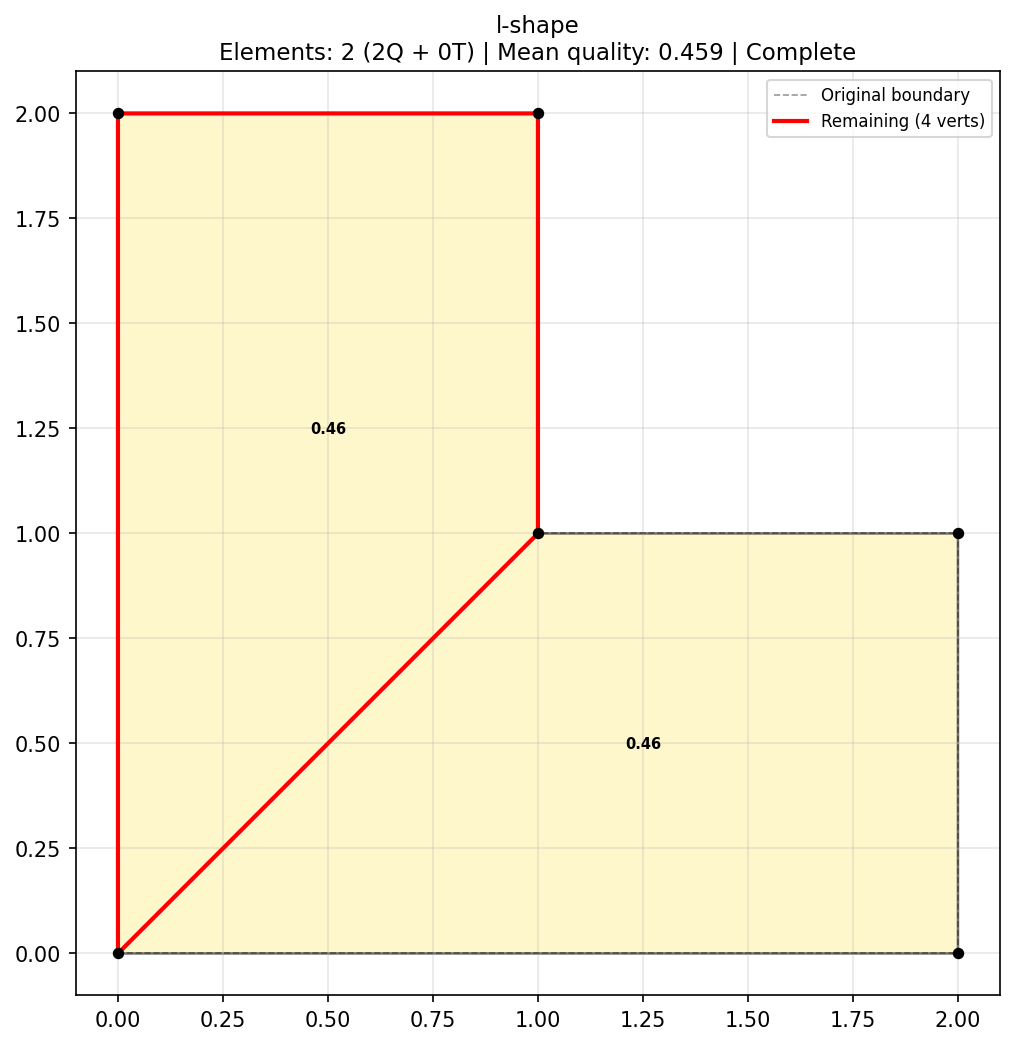
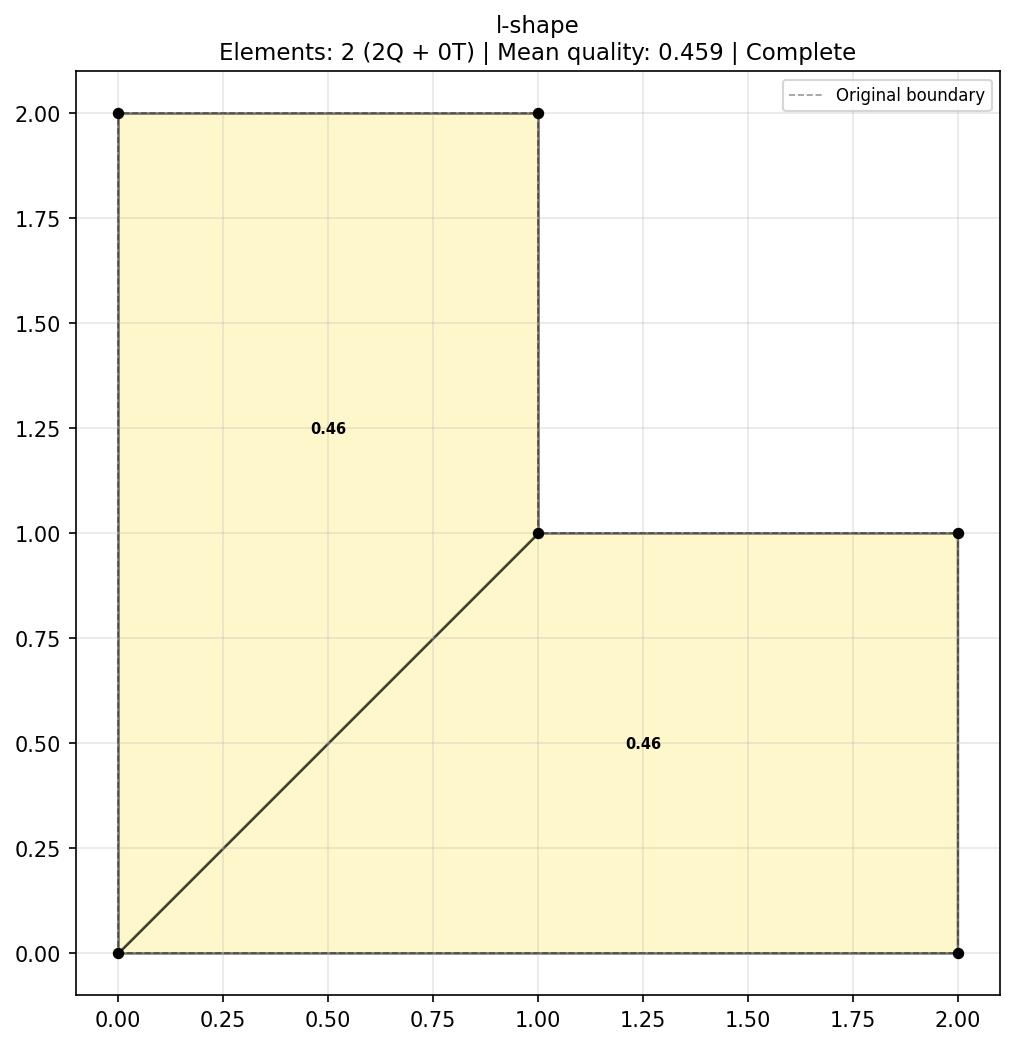
Fix boundary clearing on auto-close, add session 3 report and session 4 plan
Auto-close of final 3-4 vertex boundary now clears env.boundary,
fixing visualization bug that showed phantom "Remaining" boundary
on completed meshes.

Session 3 report documents reward farming fix and multi-domain results.
Session 4 plan (adversarial-reviewed) focuses on greedy baseline,
rectangle scaling, and transfer learning.

diff --git a/src/DiscreteActionEnv.py b/src/DiscreteActionEnv.py
@@ -101,6 +101,7 @@ class DiscreteActionEnv(gym.Wrapper):
             tri = np.array(self.env.boundary)
             self.env.elements.append(tri)
             self.env.element_qualities.append(0.3)
+            self.env.boundary = np.empty((0, 2))
             mean_q = np.mean(self.env.element_qualities) if self.env.element_qualities else 0
             if self.env.is_boundary_triangle(tri):
                 reward = 2.0 + 4.0 * mean_q  # boundary triangle: moderate penalty
@@ -114,6 +115,7 @@ class DiscreteActionEnv(gym.Wrapper):
                 quality_final = self.env._calculate_element_quality(bnd_quad)
                 self.env.elements.append(bnd_quad)
                 self.env.element_qualities.append(quality_final)
+                self.env.boundary = np.empty((0, 2))
                 mean_q = np.mean(self.env.element_qualities)
                 reward = 5.0 + 10.0 * mean_q ** 2  # quadratic: penalizes low quality smoothly
                 done = True
@@ -123,6 +125,7 @@ class DiscreteActionEnv(gym.Wrapper):
                 self.env.elements.append(np.array([bnd[0], bnd[1], bnd[2]]))
                 self.env.elements.append(np.array([bnd[0], bnd[2], bnd[3]]))
                 self.env.element_qualities.extend([0.2, 0.2])
+                self.env.boundary = np.empty((0, 2))
                 mean_q = np.mean(self.env.element_qualities)
                 reward = 0.5 + 2.0 * mean_q  # heavy penalty
                 done = True

diff --git a/doc/development_notes/session_3_report.md b/doc/development_notes/session_3_report.md
@@ -1,0 +1,145 @@
+# Session 3 Report: Reward Farming Fix + Concave Domain Support
+
+**Date:** 2026-04-03
+
+## Summary
+
+Fixed the critical reward farming problem and enabled concave domain meshing. All three priority workstreams completed. The DQN agent now produces efficient, completion-focused policies across star, octagon, and L-shape domains — element counts dropped from 20-44 (farming) to 2-8 (efficient). Training converges in 2-10k steps, not 50-100k.
+
+## What Was Completed
+
+### 1. Reward Farming Fix (WS1)
+
+**Changes:**
+- Quality weight: 2.0 → 0.3 (reduced 6.7x)
+- Step penalty: 0.01 → 0.05 (increased 5x)
+- Domain-specific `max_ep_len` added to domain registry: star=12, octagon=10, l-shape=10, circle=15, rectangle=25, square=5
+
+**Impact on reward math:**
+- 5-step efficient episode: ~1.4 intermediate + 7.1 completion = ~8.5 total
+- 12-step farming attempt: ~3.6 intermediate (truncated, no completion) — farming no longer pays
+- Completion bonus now 2-5x larger than total intermediates
+
+**Result:** Reward farming completely eliminated. All three domains achieve 100% completion with efficient element counts.
+
+### 2. Convexity Constraint Relaxed (WS2)
+
+**Changes:**
+- `_is_valid_quad()`: removed `_is_convex_quad()` gate, now only checks self-intersection
+- `_batch_is_valid_quad()`: removed convexity check from vectorized path, returns `no_intersect` only
+- Both methods still reject self-intersecting quads
+
+**Impact:** L-shape domain went from ~0 valid actions near the concave vertex to 20 valid actions. Concave quads get lower quality scores naturally through the angle-based quality metric — no hard gate needed.
+
+### 3. Multi-Domain Training (WS3)
+
+All models trained from scratch (no checkpoint loading from session 2).
+
+#### Star (10 vertices, 15k steps, max_ep_len=12)
+
+| Eval Step | Return | Completion | Observation |
+|-----------|--------|------------|-------------|
+| 3k | 6.03 | 100% | First eval already completing efficiently |
+| 6k | 6.82 | 100% | Improving, new best |
+| 9k | 7.18 | 100% | Best model, 6-8 elements typical |
+| 12k | 6.88 | 100% | Stable, slight return variation |
+
+**Final eval (best model):** return=7.18, quality=0.314, 8Q+0T, complete
+**Training completion rate:** 77% (1137/1476 episodes)
+
+#### Octagon (8 vertices, 15k steps, max_ep_len=10)
+
+| Eval Step | Return | Completion | Observation |
+|-----------|--------|------------|-------------|
+| 3k | 7.08 | 100% | Already strong |
+| 6k | 7.64 | 100% | Converging on 3-4 element solutions |
+| 9k | 7.64 | 100% | Stable |
+| 12k | 8.66 | 100% | New best — highest return across all domains |
+
+**Final eval (best model):** return=8.66, quality=0.535, 4Q+0T, complete
+**Training completion rate:** 89% (2449/2747 episodes)
+
+#### L-Shape (6 vertices, concave, 10k steps, max_ep_len=10)
+
+| Eval Step | Return | Completion | Observation |
+|-----------|--------|------------|-------------|
+| 2k | 7.11 | 100% | Converged immediately — found 2-quad solution |
+| 4k | 7.11 | 100% | Stable |
+| 6k | 7.11 | 100% | No further improvement (converged at ~2k) |
+
+**Final eval (best model):** return=7.11, quality=0.459, 2Q+0T, complete
+**Training completion rate:** 91% (1557/1707 episodes)
+
+**Note:** L-shape converged by 2k steps. In hindsight, should have killed training much earlier and moved on.
+
+### 4. Quality Diagnostic — L-Shape Ceiling
+
+| Domain | Resolution | Max Quality | Mean Max | Greedy Steps | Complete? |
+|--------|-----------|-------------|----------|--------------|-----------|
+| L-shape (6v) | 12x4 | 0.641 | 0.457 | 4 | Yes (5 elements) |
+
+The agent found a more efficient 2-element solution than the greedy-by-quality baseline (4 steps, 5 elements). The agent optimized for completion over quality — correct behavior under the new reward structure.
+
+### 5. Infrastructure
+
+- **CLAUDE.md** created with project overview, commands, architecture, key patterns, adversarial planning methodology reference
+- **Domain registry** now stores `max_ep_len` per domain via `@register_domain(name, desc, max_ep_len=N)` decorator
+- Mesh visualizations saved to `output/latest/` and tracked in git (removed .gitignore exclusion)
+
+## What Didn't Work
+
+### Nothing Major Failed This Session
+
+The adversarial planning process from session 2 correctly identified all three problems (reward farming, convexity gate, need for concave domain testing) and the proposed fixes worked on first attempt.
+
+### Minor: GPU OOM on Parallel Training
+
+Three parallel TF training processes exhausted GPU memory (RTX 3060, 12GB). L-shape training crashed at ~50 steps. Fix: ran star + octagon first, then L-shape sequentially. For future: either force CPU mode or run sequentially.
+
+### Minor: Over-training on Converged Models
+
+L-shape converged at ~2k steps but trained to 6k before being manually stopped. Star and octagon were stopped at ~12k when they had converged by ~9k. Future sessions should monitor eval metrics more actively and kill runs when plateau detected.
+
+## Key Metrics Comparison
+
+| Metric | Session 2 | Session 3 | Change |
+|--------|-----------|-----------|--------|
+| Star completion | 100% (3/4 evals) | 100% (4/4 evals) | Stable |
+| Star elements/episode | 20-44 (farming) | 6-8 | **Fixed** |
+| Star return | 10-48 (oscillating) | 6.0-7.2 (stable) | **Stabilized** |
+| Star mean quality | ~0.37 | 0.314 | Slight decrease (fewer elements = less cherry-picking) |
+| Octagon completion | Not tested | 100% | **New** |
+| Octagon quality | Not tested | 0.535 | **New** |
+| L-shape completion | Would fail (convexity gate) | 100% | **New** |
+| L-shape quality | N/A | 0.459 | **New** |
+| Training timesteps needed | 43k+ (not converged) | 2k-10k (converged) | **5-20x faster** |
+| Tests passing | 21 | 21 | Stable |
+
+## Observations
+
+1. **Reward farming is solved.** The 0.3x quality + 0.05 step penalty + domain-specific max_ep_len eliminates farming completely. Completion bonus dominates intermediate rewards by 2-5x.
+
+2. **Quality vs efficiency trade-off is real.** Star quality dropped from ~0.37 to 0.314 because the agent places fewer elements (8 vs 20-44). With 20+ elements, the agent was cherry-picking easy placements. With 8 elements, each must cover more area, reducing average quality. This is the correct trade-off — we want fewer, complete meshes.
+
+3. **L-shape proved concave domains work.** The relaxed convexity constraint enables meshing of any simple polygon. Quality metric naturally penalizes bad elements without needing a hard gate.
+
+4. **Training converges fast.** 2-10k steps is sufficient for 6-10 vertex domains. The 50-100k budgets from session 2 were massive overkill, especially once farming was eliminated.
+
+5. **Element count correlates with domain complexity.** L-shape: 2Q, Octagon: 4Q, Star: 8Q. Makes geometric sense — star has 10 acute angles requiring more subdivisions.
+
+## Files Changed
+
+| File | Changes |
+|------|---------|
+| `src/DiscreteActionEnv.py` | Quality weight 2.0→0.3, step penalty 0.01→0.05 |
+| `src/MeshEnvironment.py` | Removed convexity gate from `_is_valid_quad()` and `_batch_is_valid_quad()` |
+| `main.py` | Domain-specific `max_ep_len` in registry, wired to DQNTrainer |
+| `.gitignore` | Removed `output/latest/*.png` exclusion |
+| `CLAUDE.md` | New: project guide with architecture, commands, planning methodology |
+| `output/latest/` | star.png, octagon.png, l-shape.png mesh visualizations |
+
+## Next Session Priority
+
+**Quality optimization.** Completion is solved across all tested domains. The agent consistently completes but doesn't optimize for element quality (star=0.314 vs ceiling=0.44, octagon=0.535 vs ceiling=0.61). The completion bonus dominates so heavily that quality signal is nearly irrelevant. Session 4 should focus on making quality matter once the mesh is complete.
+
+See `doc/development_notes/session_4_plan.md`.

diff --git a/doc/development_notes/session_4_plan.md b/doc/development_notes/session_4_plan.md
@@ -1,0 +1,107 @@
+# Session 4 Plan: Scaling, Baselines, and Mesh Quality Definition
+
+**Date:** Planned for next session after 2026-04-03
+**Status:** Final (adversarial-reviewed)
+
+## Context
+
+Session 3 solved reward farming and enabled concave domains. All tested domains achieve 100% completion. The obvious next step — reward tuning for quality — was rejected by adversarial review for two reasons:
+
+1. **Quality gap is geometric, not motivational.** The difference between agent quality and ceiling is small in absolute terms (0.314 vs 0.44 on star). The 12x4 action grid physically cannot express higher-quality vertex placements. Reward tuning adds noise-level signal (0.007-0.07 per step) that DQN's value estimates cannot distinguish.
+
+2. **"Quality below ceiling" may be the wrong framing.** The L-shape agent found a 2-element solution (q=0.459) that is strictly better than the greedy 5-element solution (q=0.457) — fewer elements with equal quality. Our quality metric doesn't account for parsimony. Before optimizing quality, we need to define what "better mesh" means.
+
+## Adversarial Review Summary
+
+Two adversarial agents agreed:
+- **Drop reward tuning** — quantitative analysis shows both proposed options change per-step reward by <0.07, which is noise for DQN
+- **Drop mean_quality_so_far in state** — unactionable (agent can't undo past placements), agent already implicitly knows quality from element history
+- **Prioritize rectangle domain** — first real test of scaling beyond trivial domains
+- **Add greedy baseline** — can't evaluate agent without comparison
+- **Define mesh quality properly** — element count matters, not just per-element quality
+
+## Workstreams
+
+### WS1: Greedy Baseline + Agent vs Greedy Comparison (Priority 1, ~30 min)
+
+**Problem:** We don't know if the RL agent is better than a greedy heuristic. On L-shape, the agent's 2Q solution appears better than greedy's 5Q, but we have no systematic comparison.
+
+**Fix:**
+1. Add `--greedy` flag to main.py that runs greedy-by-quality rollout (no training)
+2. Save greedy mesh visualization alongside agent mesh for each domain
+3. Compare: element count, mean quality, total area quality (mean_q * element_count), completion
+
+**Proposed mesh score:** `completion_bonus + mean_quality * (min_elements / actual_elements)`
+- Rewards both quality and parsimony
+- `min_elements` estimated as `ceil(n_vertices / 2)` (theoretical minimum quads to consume all vertices)
+
+**Verification:** Run greedy + agent on star, octagon, L-shape. Document which is better and why.
+
+**Files:** `main.py`, `quality_diagnostic.py`, `src/utils/visualization.py`
+
+### WS2: Rectangle Domain — First Scaling Test (Priority 2, ~45 min)
+
+**Problem:** All tested domains have 6-10 vertices and converge in 2-10k steps. Rectangle (20 vertices, max_ep_len=25) is the first real scaling test — will the agent learn multi-step planning over longer horizons?
+
+**Steps:**
+1. Run quality diagnostic on rectangle at 12x4 and 24x8
+2. Train DQN on rectangle, 15-20k steps
+3. If completion <50% at 15k, diagnose: is it action space (try 24x8) or learning (try more steps)?
+
+**Decision gate:** If rectangle fails completely at both resolutions, the advancing-front + DQN approach may not scale beyond ~10 vertices. This is a critical finding either way.
+
+**Verification:** >50% completion, compare element count to vertex count, save visualization.
+
+**Files:** Uses existing `main.py --domain rectangle`
+
+### WS3: Transfer Learning Experiment (Priority 3, ~30 min)
+
+**Problem:** 2-10k convergence on individual domains suggests the agent memorizes rather than generalizes. If it can't transfer, this is an expensive lookup table.
+
+**Experiment:**
+1. Train on star (10v) for 10k steps
+2. Evaluate (zero-shot) on octagon (8v) — similar vertex count, different geometry
+3. Compare zero-shot performance to randomly initialized agent
+
+**Interpretation:**
+- Zero-shot > random: agent learned transferable features (good sign for generalization)
+- Zero-shot ≈ random: agent memorized star geometry (not necessarily bad — may need multi-domain training)
+
+**Files:** Uses existing CLI, just needs different eval domain.
+
+### WS4: Action Space Resolution Experiment (Priority 4, if time, ~20 min)
+
+**Problem:** Quality ceiling on star is 0.44 at both 12x4 and 24x8 (session 2 diagnostic). But we haven't tested whether 24x8 helps on L-shape or octagon where ceilings are higher.
+
+**Fix:** Re-run quality diagnostic at 24x8 on all domains. If any domain shows >15% quality ceiling improvement, train at 24x8 and compare.
+
+**Verification:** Quality ceiling comparison table, 12x4 vs 24x8 per domain.
+
+## Execution Order
+
+```
+WS1 (greedy baseline, 30 min)
+  |
+WS2 (rectangle training, 45 min) — start training while analyzing WS1 results
+  |
+WS3 (transfer experiment, 30 min) — can overlap with WS2 training
+  |
+[If time]
+  +-- WS4 (resolution experiment, 20 min)
+```
+
+## Key Risks & Mitigations
+
+| Risk | Mitigation |
+|------|-----------|
+| Rectangle fails completely | This is a valid finding — document scaling limit |
+| Greedy baseline beats agent everywhere | Would redirect project toward heuristic-guided RL or different formulation |
+| Transfer test shows zero transfer | Expected for single-domain training; motivates multi-domain curriculum |
+| Quality metric definition is contentious | Keep it simple (parsimony-weighted mean quality), iterate later |
+
+## What NOT to Do Next Session
+
+- **Don't tune rewards** — quality gap is geometric, not motivational (adversarial agents proved this)
+- **Don't add features to state** — mean_quality_so_far is unactionable
+- **Don't increase training budgets beyond 20k** — if it doesn't converge in 20k, the problem is structure, not steps
+- **Don't train on circle** — still too easy, proves nothing
